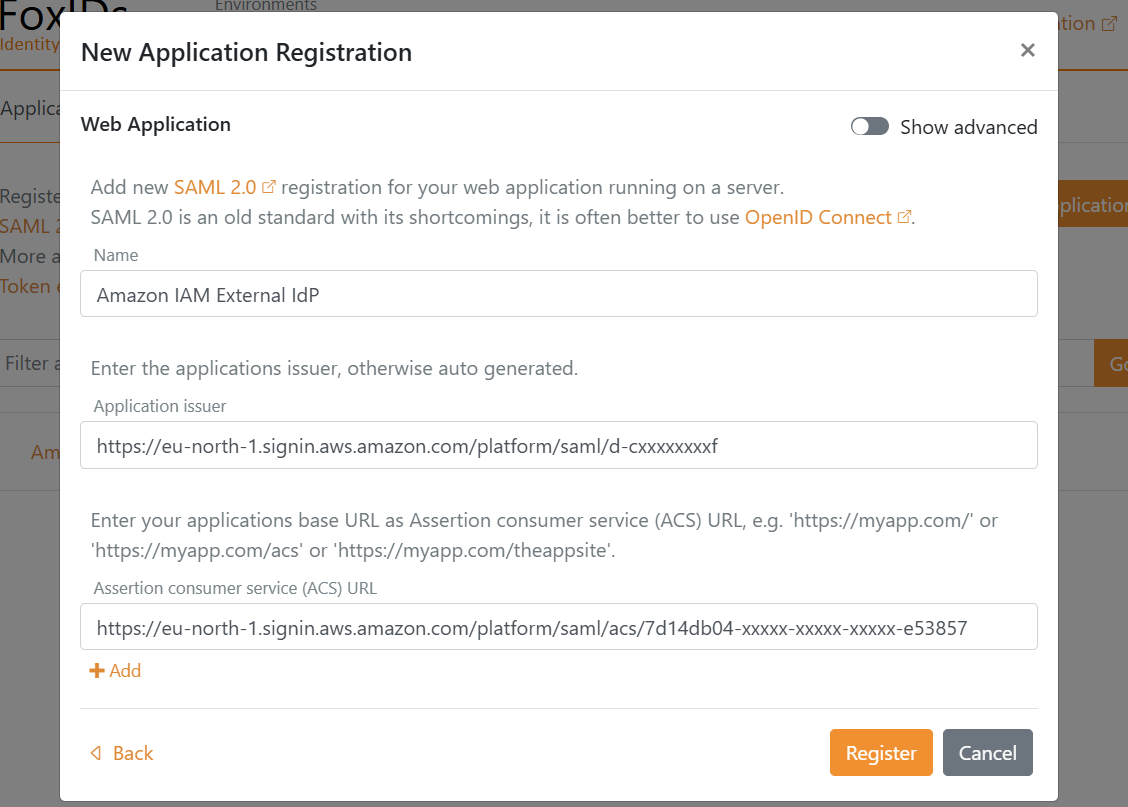
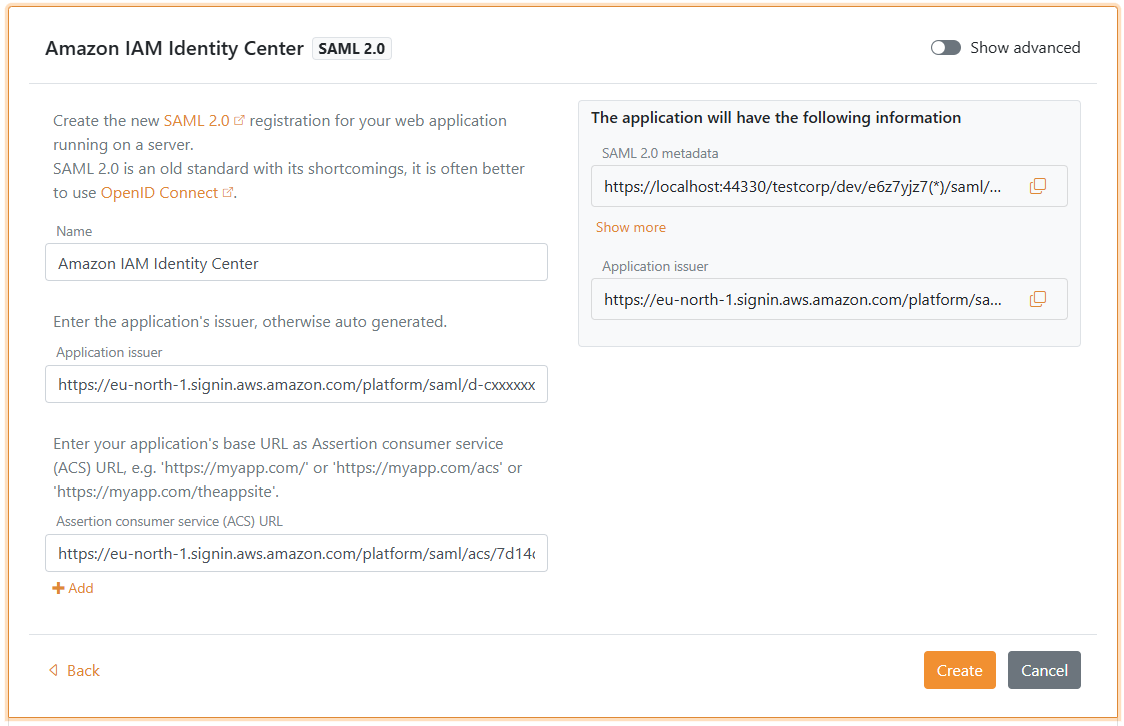
docs Amazon IAM Identity Center

Changed region(s): [[0.0, 0.0, 1.0, 1.0], [0.5294, 0.3636, 0.8719, 0.4242]]

diff --git a/docs/app-reg-howto-saml-amazon-iam-identity-center.md b/docs/app-reg-howto-saml-amazon-iam-identity-center.md
@@ -1,6 +1,6 @@
 # Connect to Amazon IAM Identity Center with SAML 2.0
 
-FoxIDs can be added as an external identity provider for Amazon IAM Identity Center with SAML 2.0.
+Connect FoxIDs as an **external identity provider for Amazon IAM Identity Center** with SAML 2.0.
 
 By configuring an [OpenID Connect authentication method](auth-method-oidc.md) and Amazon IAM Identity Center as a [SAML 2.0 application](app-reg-saml-2.0.md) FoxIDs become a [bridge](bridge.md) between OpenID Connect and SAML 2.0 and automatically convert JWT (OAuth 2.0) claims to SAML 2.0 claims.
 
@@ -41,17 +41,16 @@ You are required to upload the SAML 2.0 metadata from FoxIDs to Amazon IAM Ident
 6. Add the **Application issuer** from Amazon IAM Identity Center called **IAM Identity Center issuer URL**
 7. Add the **Assertion consumer service (ACS) URL** from Amazon IAM Identity Center called **IAM Identity Center Assertion Consumer Service (ACS) URL** 
 ![Add issuer and ACS in FoxIDs](images/app-reg-howto-saml-amazon-iam-ic-create.png)
-8. Click **Register**
-9. Click **Close**
-10. Find the application in the list and click on it to edit
-11. Click **Show advanced**
-12. Set the **Authn request binding** to **Post**
-13. Set the **NameID format** to `urn:oasis:names:tc:SAML:1.1:nameid-format:emailAddress`
+8. Click **Create**
+9. Click **Change application** - to open the application opens in edit mode
+10. Click **Show advanced**
+11. Set the **Authn request binding** to **Post**
+12. Set the **NameID format** to `urn:oasis:names:tc:SAML:1.1:nameid-format:emailAddress`
 ![Set binding and NameID format in FoxIDs](images/app-reg-howto-saml-amazon-iam-ic-binding-format.png)
-14. Set the **NameID format in metadata** to `urn:oasis:names:tc:SAML:1.1:nameid-format:emailAddress` at the bottom of the application
-15. Click **Update**
-16. Go to the top of the application and click the **SAML 2.0 Metadata URL** link to open it in a browser
-17. Download the metadata as a metadata file
+13. Set the **NameID format in metadata** to `urn:oasis:names:tc:SAML:1.1:nameid-format:emailAddress` at the bottom of the application
+14. Click **Update**
+15. Go to the top of the application and click the **SAML 2.0 Metadata URL** link to open it in a browser
+16. Download the metadata as a metadata file
  
 **4 - Go back to the Amazon IAM Identity Center in [AWS portal](https://aws.amazon.com/)**
 

diff --git a/docs/app-reg-howto-saml-microsoft-entra-id.md b/docs/app-reg-howto-saml-microsoft-entra-id.md
@@ -74,7 +74,7 @@ It is not possible to configure an external SAML 2.0 identity provider in the [M
    ```
 5. configure the domain federation:
    ```powershell
-   New-MgDomainFederationConfiguration -DomainName $domainName `
+   New-MgDomainFederationConfiguration -DomainId $domainName `
      -IssuerUri $idpIssuer `
      -PassiveSignInUri $ssoUrl `
      -LogoutUri $sloUrl `
@@ -88,9 +88,9 @@ It is not possible to configure an external SAML 2.0 identity provider in the [M
    - `rejectMfaByFederatedIdp` – Entra always does MFA itself; MFA at FoxIDs is ignored.
 6. Validate the configuration:
    ```powershell
-   Get-MgDomainFederationConfiguration -DomainName $domainName
+   Get-MgDomainFederationConfiguration -DomainId $domainName
    # or
-   Get-MgDomain -DomainId $Domain | fl Id, AuthenticationType
+   Get-MgDomain -DomainId $domainName | fl Id, AuthenticationType
    ``` 
 
 **4a - Then configure the users Immutable ID in Microsoft Entra ID with PowerShell**
